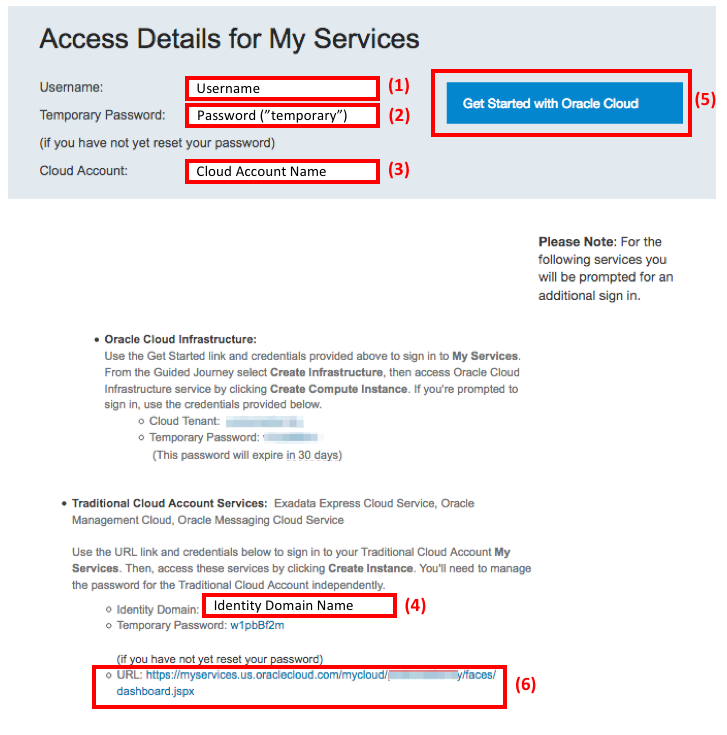
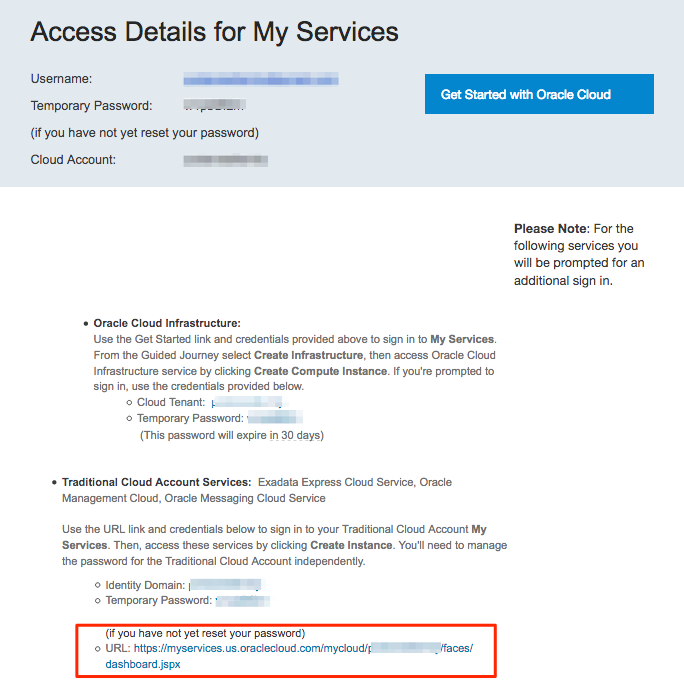
updated student guide to show how to reset password for Traditional Account

diff --git a/workshops/microservices-devops/StudentGuide.md b/workshops/microservices-devops/StudentGuide.md
@@ -110,7 +110,7 @@ Some services that we will use in this workshop require that your account's Repl
 
 We will now set the Password for the **Traditional Account** User. This Account will allow you to access the **Developer Cloud Service**.
 
-- Click on the link ***(6)*** **Traditional Cloud Account My Services URL** provided in the Welcome email sent from Oracle.
+- Click on the link **Traditional Cloud Account My Services URL** provided in the Welcome email sent from Oracle.
 
     ![](images/studentguide/Picture199.png)
 
